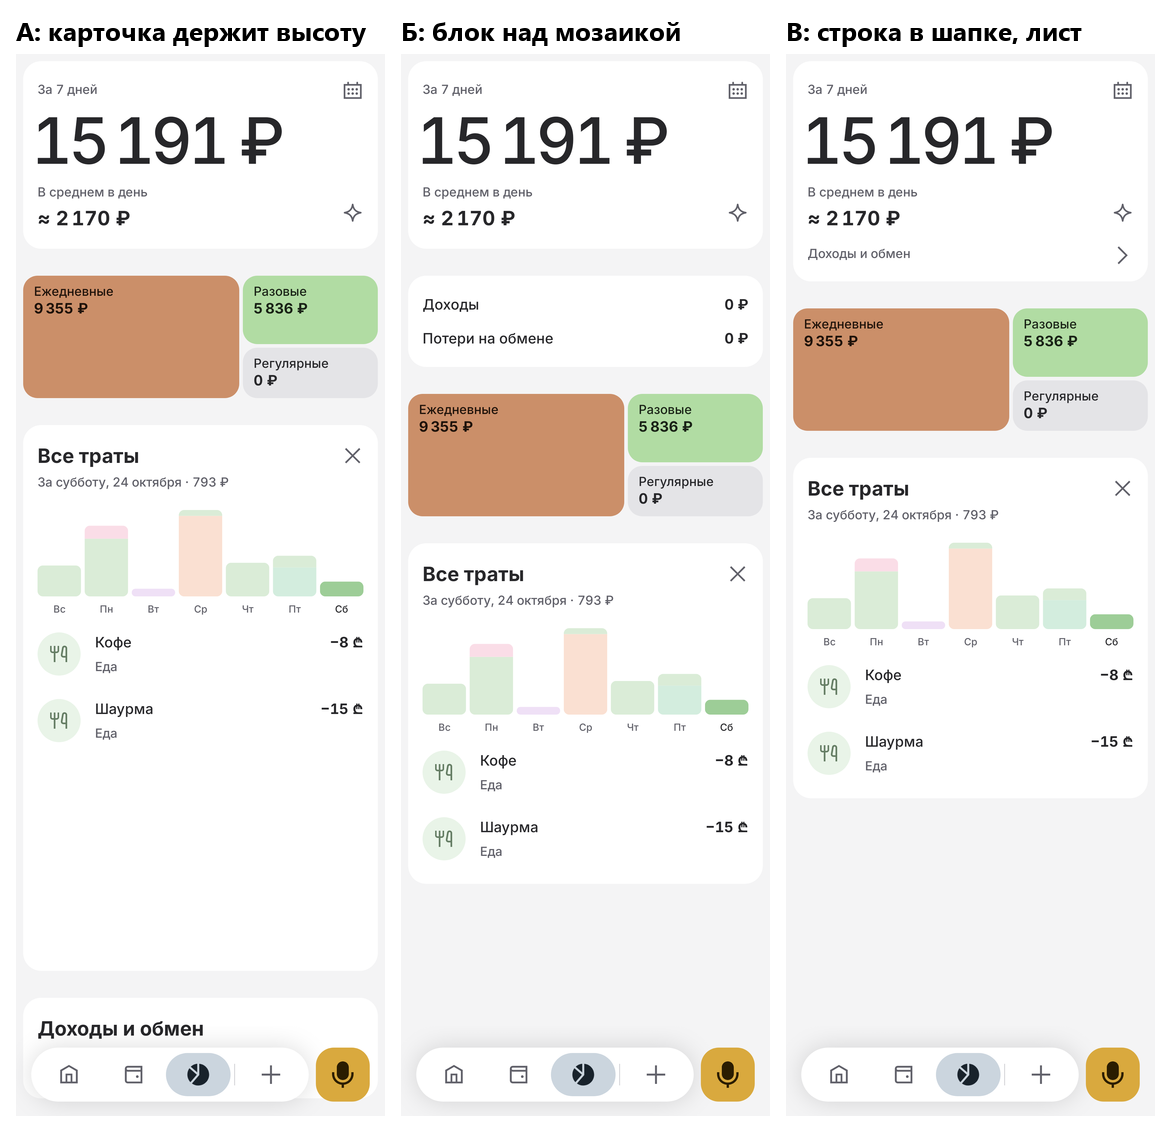
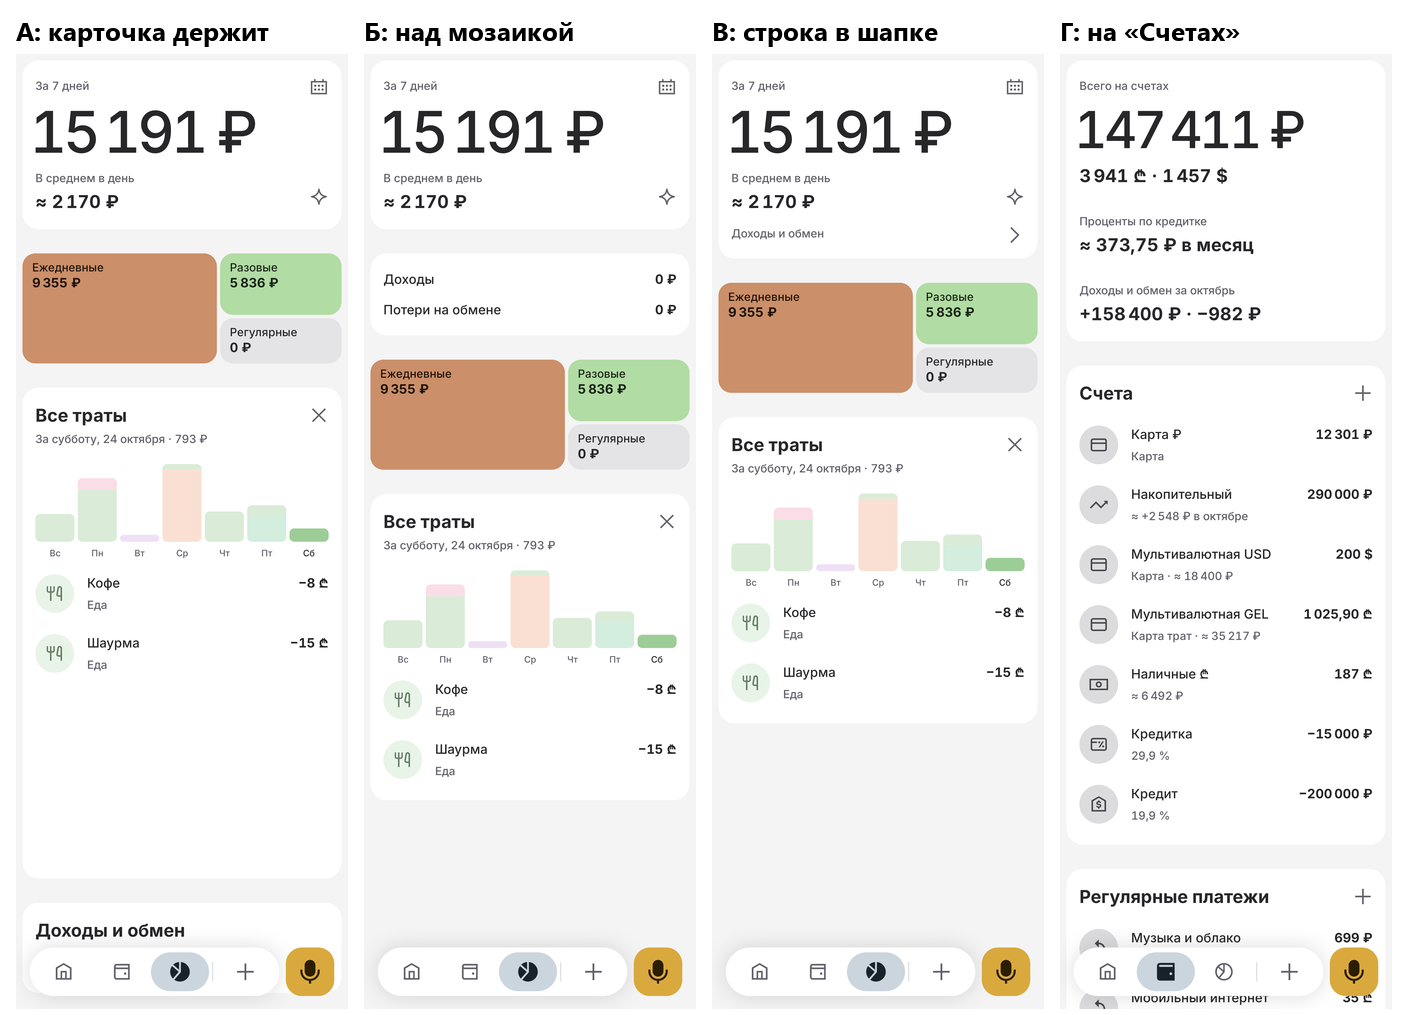
Tasks: Insights, income and exchange on Accounts as a fourth way, in frames

diff --git a/docs/tasks/analytics-contours.md b/docs/tasks/analytics-contours.md
@@ -344,11 +344,13 @@
 - Б, блок над мозаикой: теряем первый экран, мозаика и график опускаются примерно на 118 dp ради двух чисел, которые смотрят редко.
 - В, строка в шапке и лист: теряем числа на виду, чтобы увидеть доходы, нужно одно нажатие.
 
+- Г, на «Счетах»: блока в Аналитике нет, в шапке «Счетов» строка «Доходы и обмен за октябрь». Период — текущий календарный месяц, подпись его называет: календаря там нет. Разбор Gemini не меняется: он считает доходы и потери сам, из операций за свой период. Теряем связь с периодом: на неделе или своём диапазоне в Аналитике доходов не увидеть, а на «Счетах» появляется поток за месяц среди остатков на сегодня.
+
 **Рекомендация: В.** Под списком ничего нет, значит прыгать нечему, и экран короче. Запас в конце страницы при этом остаётся: он держит график на месте при выборе.
 
 ## Вопросы
 0. **Значок «Разбора»:** искра подходит?
-0. **«Доходы и обмен»:** А, Б или В? Кадр `r13-income.png`.
+0. **«Доходы и обмен»:** А, Б, В или Г? Кадр `r13-income.png`.
 0. Второй круг, рекомендации:
    - **Мозаика: М2, блок** — площадь честная; полоса компактнее на 48 dp, но показывает 64 % как 37 %.
    - **«По дням»: строка (В2)** — столбики уходят на уровень ниже, первый экран короче нынешнего; со столбиками он
